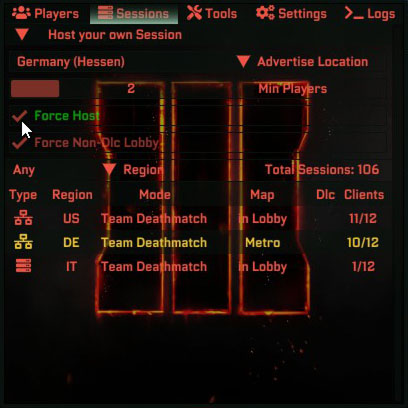
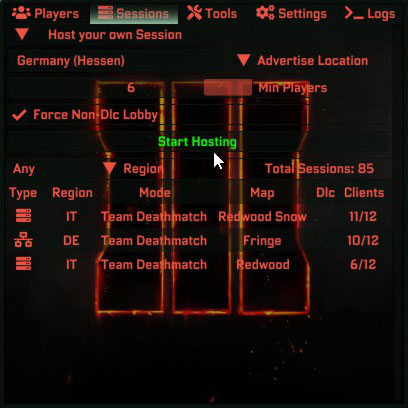
adjust p2p page image and text

diff --git a/src/App.jsx b/src/App.jsx
@@ -369,7 +369,7 @@ function App() {
                                         </li>
                                         <li className="flex items-start gap-3">
                                             <FaCheck className="text-green-400 mt-1 flex-shrink-0" />
-                                            <span className="text-gray-300"><strong className="text-white">Enable "Force Host"</strong> - Activates hosting mode - now search for a Public Match to open your lobby.</span>
+                                            <span className="text-gray-300"><strong className="text-white">Click "Start Hosting"</strong> - Activates hosting mode - now search for a Public Match to open your lobby.</span>
                                         </li>
                                         <li className="flex items-start gap-3">
                                             <FaCheck className="text-green-400 mt-1 flex-shrink-0" />
